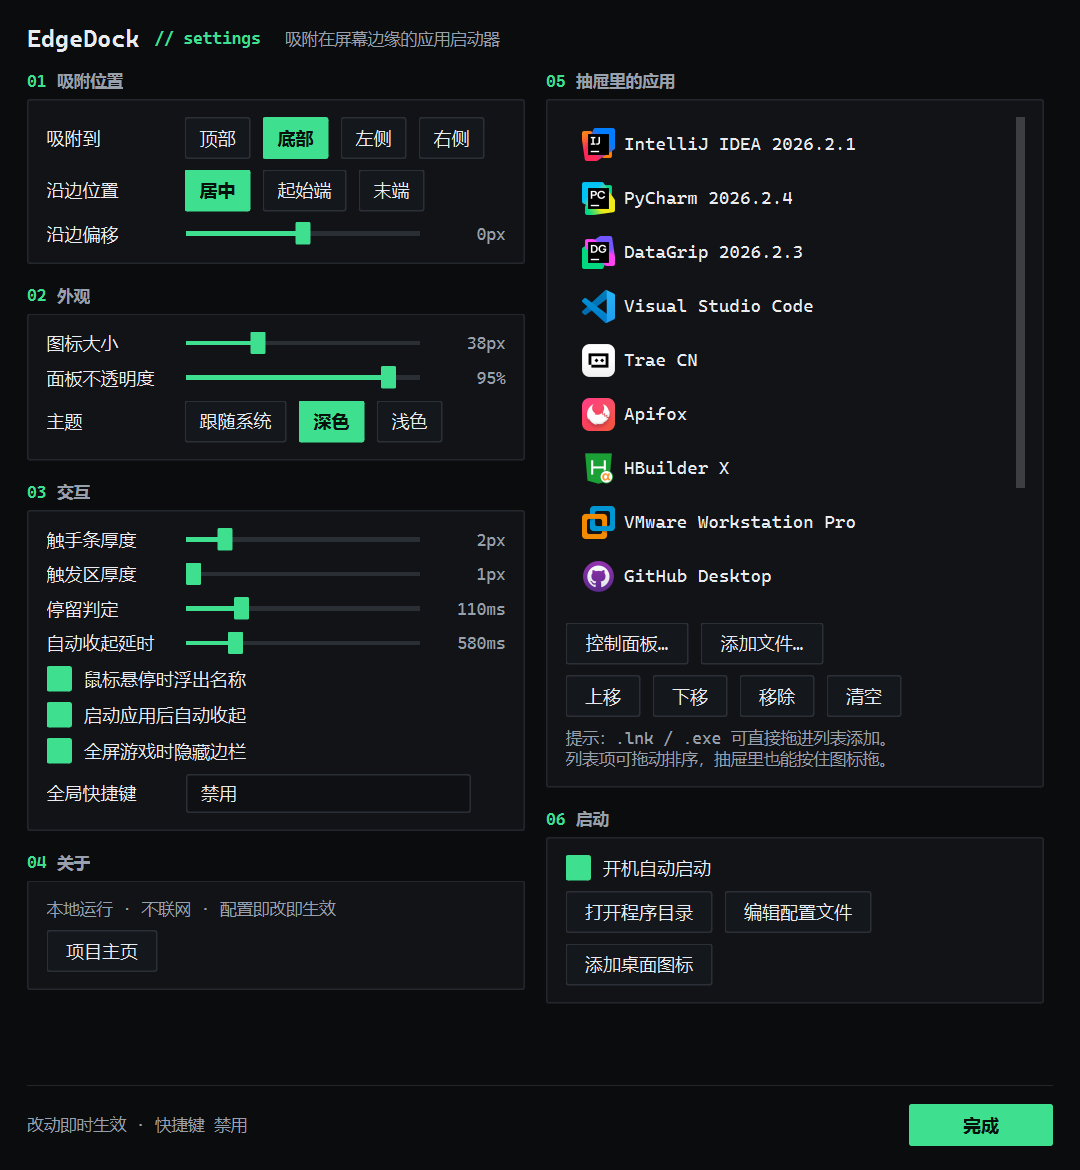
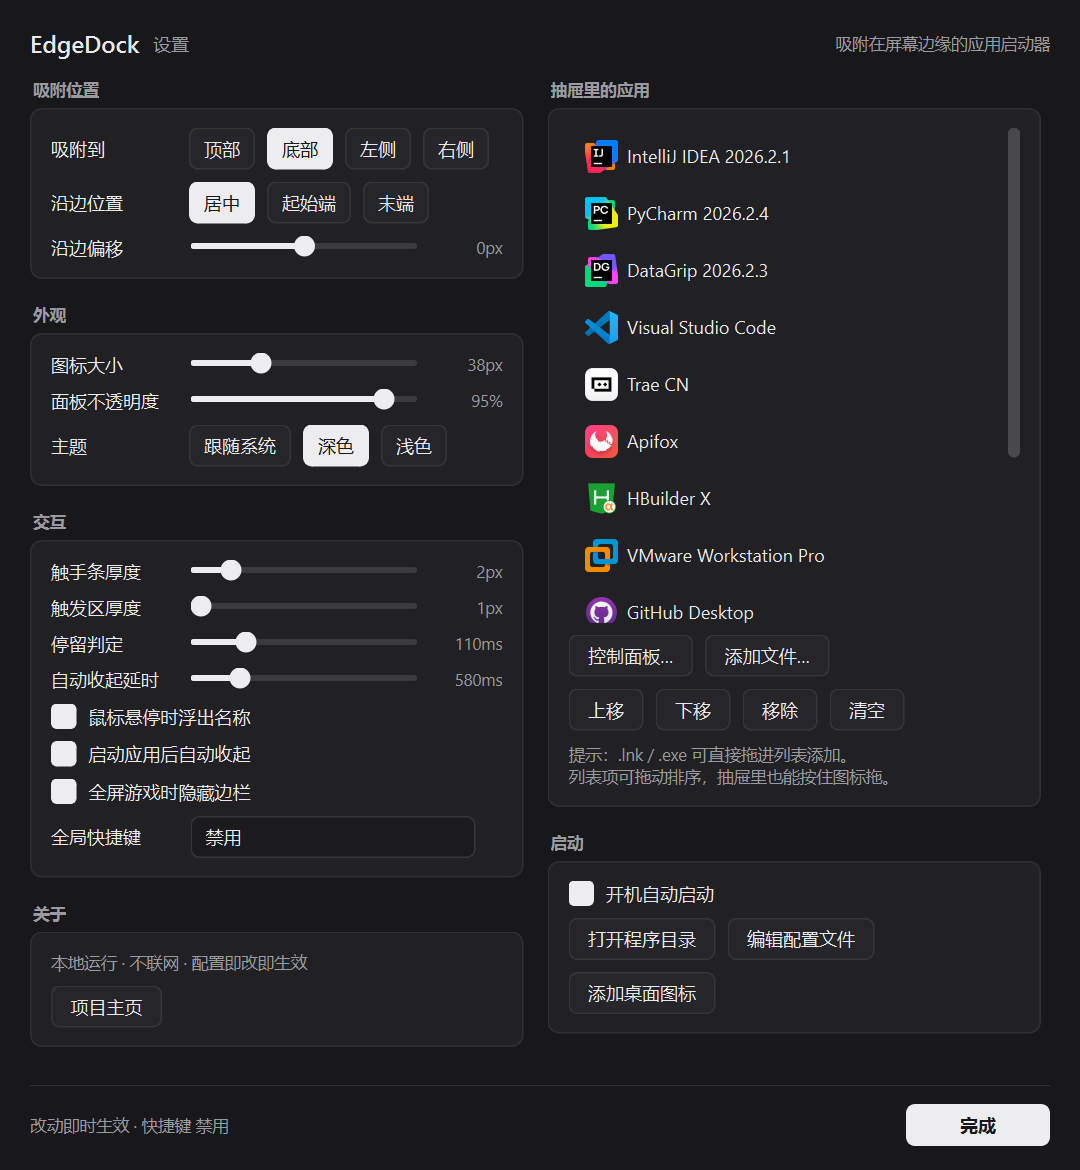
设置界面改成白灰简约（Codex Desktop 风）
- theme.py：设置窗口那套配色整体换成中性灰阶。浅色 = 纯白卡片 + #F6F6F7 底，
  深色 = #212124 卡片 + #18181B 底；强调色从荧光绿换成近黑 / 近白，
  不再有第二个色相
- settings_qss()：2px 直角改 8px 圆角、按钮 6px、指示器 4px；滑杆换成
  4px 轨道 + 14px 圆点；列表选中从「左侧色条 + 淡绿」改成淡灰圆角块；
  字体从等宽换成系统无衬线（Segoe UI / 微软雅黑）
- settings.py：去掉 01–06 编号，分组标题改成浅灰小字；页头改为
  「EdgeDock 设置 …… 吸附在屏幕边缘的应用启动器」，标语移到右侧；
  卡片内边距与列间距略微放宽（13/12、16px）
- 抽屉本体仍是琥珀橙，右键菜单不动 —— 只有设置窗口换了风格
- 三张配图重新渲染；README / 简介 描述同步

自检 238 项全绿；measure_settings 确认两列仍等宽（329/329）、内容没有溢出滚动区

diff --git a/edgedock/theme.py b/edgedock/theme.py
@@ -1,7 +1,8 @@
 # -*- coding: utf-8 -*-
 """配色方案。
 
-深色方案以「墨黑 + 琥珀橙」为主，贴合深色壁纸；浅色方案为纯净白。
+抽屉用「墨黑 + 琥珀橙」，贴合壁纸、暖色更显眼；设置窗口单独走**白灰简约**
+（纯白卡片 + 浅灰细线 + 近黑强调），两套配色各管一块，互不干扰。
 
 注意：Qt 样式表里的 rgba() 第 4 个参数必须是 0~255 的整数，
 写成 0.05 这种小数会被当成满不透明，务必用 Rgba() 辅助函数生成。
@@ -20,48 +21,49 @@ PERSONALIZE_KEY = (r"Software\Microsoft\Windows\CurrentVersion"
 
 DARK = {
     "name": "dark",
-    "dialog": "#0B0C0E",
+    "dialog": "#18181B",
     "panel_hi": QColor(38, 40, 47, 240),      # 面板渐变顶部
     "panel_lo": QColor(18, 19, 23, 234),      # 面板渐变底部
     "border": QColor(255, 255, 255, 26),
     "edge_light": QColor(255, 255, 255, 22),  # 内侧高光
     "hover": QColor(255, 255, 255, 28),
     "hover_ring": QColor(255, 122, 45, 90),
-    "text": "#E9EBEF",
-    "subtext": "#98A0AC",
+    "text": "#EAEAEC",
+    "subtext": "#9A9AA0",
     "accent": QColor(255, 122, 45),
     "grip": QColor(255, 140, 70, 190),
     "toast_bg": QColor(24, 25, 30, 242),
     "divider": QColor(255, 255, 255, 20),
     "scroll": QColor(255, 255, 255, 46),
     "immersive_dark": 1,
-    # 设置界面用色：终端 / CodeX 风 —— 近黑底、细边框、荧光绿强调
-    "card": "#111317",
-    "card_border": "#23262C",
-    "btn": "#14171B",
-    "btn_border": "#2B2F36",
-    "btn_hover": "#1B1F24",
-    "btn_press": "#22272D",
+    # 设置界面用色：白灰简约（Codex Desktop 那种）—— 中性灰阶，只有一个
+    # 近白强调色，不掺任何彩色。
+    "card": "#212124",
+    "card_border": "#303034",
+    "btn": "#26262A",
+    "btn_border": "#35353A",
+    "btn_hover": "#2E2E33",
+    "btn_press": "#35353B",
     "menu_sel": "rgba(255,122,45,62)",
     "menu_bg": "#1E2024",
-    "input_bg": "#0E1013",
-    "input_border": "#2A2E35",
-    "list_sel": "rgba(62,224,143,30)",
-    "list_hover": "#16191D",
-    "track": "#2A2E35",
-    "ind_border": "#3A3F47",
-    "ind_bg": "#0E1013",
-    "popup_bg": "#15181C",
-    # 设置界面自己的强调色。抽屉仍是琥珀橙 —— 它贴在壁纸上，暖色更显眼；
-    # 设置窗口是一块工作区，冷绿更符合终端的气质。
-    "s_accent": "#3EE08F",
-    "s_accent_soft": "#2FD07F",
-    "s_accent_text": "#06120B",
+    "input_bg": "#1B1B1E",
+    "input_border": "#35353A",
+    "list_sel": "rgba(255,255,255,18)",
+    "list_hover": "#2A2A2E",
+    "track": "#3A3A3F",
+    "ind_border": "#4A4A50",
+    "ind_bg": "#1B1B1E",
+    "popup_bg": "#242428",
+    # 设置界面的强调色。抽屉仍是琥珀橙 —— 它贴在壁纸上，暖色更显眼；
+    # 设置窗口走中性灰，强调色就是「最亮的那一档」，不需要另一个色相。
+    "s_accent": "#EDEDEF",
+    "s_accent_soft": "#D8D8DC",
+    "s_accent_text": "#17171A",
 }
 
 LIGHT = {
     "name": "light",
-    "dialog": "#F7F8F9",
+    "dialog": "#F6F6F7",
     # 半透明：能透出壁纸的层次，同时保持图标对比度
     "panel_hi": QColor(255, 255, 255, 202),
     "panel_lo": QColor(238, 240, 245, 184),
@@ -69,8 +71,8 @@ LIGHT = {
     "edge_light": QColor(255, 255, 255, 210),
     "hover": QColor(15, 18, 25, 26),
     "hover_ring": QColor(255, 122, 45, 130),
-    "text": "#1B1D22",
-    "subtext": "#5C6472",
+    "text": "#1F2328",
+    "subtext": "#6E7681",
     "accent": QColor(255, 110, 30),
     "grip": QColor(255, 120, 40, 175),
     "toast_bg": QColor(252, 252, 254, 238),
@@ -78,23 +80,23 @@ LIGHT = {
     "scroll": QColor(15, 18, 25, 60),
     "immersive_dark": 0,
     "card": "#FFFFFF",
-    "card_border": "#E4E6E9",
+    "card_border": "#E6E6E9",
     "btn": "#FFFFFF",
-    "btn_border": "#D8DBDF",
-    "btn_hover": "#F2F4F5",
-    "btn_press": "#E8EBED",
+    "btn_border": "#DCDCE0",
+    "btn_hover": "#F4F4F6",
+    "btn_press": "#ECECEF",
     "menu_sel": "rgba(255,122,45,56)",
     "menu_bg": "#FFFFFF",
     "input_bg": "#FFFFFF",
-    "input_border": "#D8DBDF",
-    "list_sel": "rgba(15,157,88,26)",
-    "list_hover": "#F2F4F5",
-    "track": "#E1E4E8",
-    "ind_border": "#C4C9CF",
+    "input_border": "#DCDCE0",
+    "list_sel": "#F0F0F2",
+    "list_hover": "#F7F7F9",
+    "track": "#E6E6E9",
+    "ind_border": "#C9C9CE",
     "ind_bg": "#FFFFFF",
     "popup_bg": "#FFFFFF",
-    "s_accent": "#0F9D58",
-    "s_accent_soft": "#0B8A4B",
+    "s_accent": "#1F2328",
+    "s_accent_soft": "#33383F",
     "s_accent_text": "#FFFFFF",
 }
 
@@ -154,84 +156,89 @@ def menu_qss(t: dict) -> str:
          "dis": t["subtext"]}
 
 
-MONO_FONT = ('"Cascadia Mono", "JetBrains Mono", "Sarasa Mono SC", '
-             '"Consolas", "Microsoft YaHei UI"')
+UI_FONT = ('"Segoe UI Variable Text", "Segoe UI", "Microsoft YaHei UI", '
+           '"PingFang SC", sans-serif')
 
 
 def settings_qss(t: dict) -> str:
-    """设置窗口样式表：终端 / CodeX 风。
+    """设置窗口样式表：白灰简约。
 
-    方角、1px 细线、等宽字体、单一荧光绿强调 —— 不做圆角卡片和渐变那套，
-    看起来像一块工作区，而不是一个「设置面板」。
+    一张白卡片 + 一圈 1px 浅灰细线 + 8px 圆角，全局只有一个强调色（近黑 /
+    近白），字用系统无衬线。没有发光、没有渐变、没有彩色标签 —— 目标是让它
+    看起来像一块安静的桌面面板，而不是一块终端。
     """
     return """
     QDialog { background: %(dialog)s; }
-    QWidget { color: %(text)s; font-family: %(mono)s; font-size: 12px; }
-    QLabel#Title   { font-size: 16px; font-weight: 700; }
-    QLabel#Brand   { color: %(accent)s; font-size: 11px; font-weight: 700; }
+    QWidget { color: %(text)s; font-family: %(ui)s; font-size: 12px; }
+    QLabel#Title   { font-size: 16px; font-weight: 600; }
+    QLabel#Brand   { color: %(subtext)s; font-size: 12px; }
     QLabel#Section { color: %(subtext)s; font-size: 11px; font-weight: 600; }
-    QLabel#Step    { color: %(accent)s; font-size: 11px; font-weight: 700; }
     QLabel#Hint    { color: %(subtext)s; font-size: 11px; }
     QFrame#Card    { background: %(card)s; border: 1px solid %(card_border)s;
-                     border-radius: 2px; }
+                     border-radius: 8px; }
     QFrame#FootLine { background: %(card_border)s; border: none; }
     QPushButton { background: %(btn)s; border: 1px solid %(btn_border)s;
-                  border-radius: 2px; padding: 5px 12px; }
+                  border-radius: 6px; padding: 5px 12px; }
     QPushButton:hover   { background: %(btn_hover)s;
-                          border-color: %(accent_soft)s; }
+                          border-color: %(btn_border_hover)s; }
     QPushButton:pressed { background: %(btn_press)s; }
+    QPushButton:disabled { color: %(subtext)s; }
     QPushButton#Primary { background: %(accent)s; color: %(accent_text)s;
-                          border: 1px solid %(accent)s; font-weight: 700; }
+                          border: 1px solid %(accent)s; font-weight: 600; }
     QPushButton#Primary:hover { background: %(accent_soft)s;
                                 border-color: %(accent_soft)s; }
     /* 内边距别调大：左列「吸附到」一行要放下四个按钮，
        稍微超出一点布局就会去压缩间距，标签和按钮就会贴到一起。 */
     QPushButton#Seg { padding: 5px 9px; }
     QPushButton#Seg:checked { background: %(accent)s; color: %(accent_text)s;
-                              border: 1px solid %(accent)s; font-weight: 700; }
+                              border: 1px solid %(accent)s; }
     QCheckBox { spacing: 8px; }
     /* 列表里的复选框必须自己画：一旦有 ::item 规则，Qt 就不再拿原生样式
        画指示器，勾没勾上都画成同一个空方框 —— 用户看见的就是「点了没反应」。 */
     QCheckBox::indicator, QListWidget::indicator {
-        width: 15px; height: 15px; border-radius: 2px;
+        width: 15px; height: 15px; border-radius: 4px;
         border: 1px solid %(ind_border)s; background: %(ind_bg)s; }
     QCheckBox::indicator:checked, QListWidget::indicator:checked {
         background: %(accent)s; border: 1px solid %(accent)s; }
-    QListWidget::indicator:hover { border: 1px solid %(accent)s; }
+    QCheckBox::indicator:hover, QListWidget::indicator:hover {
+        border: 1px solid %(accent_soft)s; }
     QListWidget { background: transparent; border: none; outline: none; }
-    QListWidget::item { padding: 5px 6px; border-left: 2px solid transparent; }
-    QListWidget::item:selected { background: %(list_sel)s;
-                                 border-left: 2px solid %(accent)s; }
+    QListWidget::item { padding: 6px 8px; border-radius: 6px; }
+    QListWidget::item:selected { background: %(list_sel)s; }
     QListWidget::item:hover { background: %(list_hover)s; }
-    QSlider::groove:horizontal { height: 3px; background: %(track)s; }
-    QSlider::sub-page:horizontal { background: %(accent)s; }
-    QSlider::handle:horizontal { width: 10px; height: 14px; margin: -6px 0;
-                                 border-radius: 1px; background: %(accent)s; }
+    QSlider::groove:horizontal { height: 4px; border-radius: 2px;
+                                 background: %(track)s; }
+    QSlider::sub-page:horizontal { background: %(accent)s; border-radius: 2px; }
+    QSlider::handle:horizontal { width: 14px; height: 14px; margin: -5px 0;
+                                 border-radius: 7px; background: %(accent)s; }
     /* 输入框跟下拉框用同一套皮肤。不写这条的话 Qt 会退回 Windows 11
        原生样式 —— 底下拖一道蓝线，跟其余控件完全不是一家人。 */
     QLineEdit { background: %(input_bg)s; border: 1px solid %(input_border)s;
-                border-radius: 2px; padding: 5px 9px; }
+                border-radius: 6px; padding: 5px 9px; }
     QLineEdit:focus { border: 1px solid %(accent)s; }
     QComboBox { background: %(input_bg)s; border: 1px solid %(input_border)s;
-                border-radius: 2px; padding: 4px 9px; }
+                border-radius: 6px; padding: 4px 9px; }
     QComboBox::drop-down { border: none; width: 20px; }
     QComboBox QAbstractItemView { background: %(popup_bg)s; color: %(text)s;
                 border: 1px solid %(input_border)s; outline: none;
+                padding: 4px; border-radius: 6px;
                 selection-background-color: %(accent)s;
                 selection-color: %(accent_text)s; }
     QScrollArea { background: transparent; border: none; }
     QScrollArea > QWidget > QWidget { background: transparent; }
     QScrollArea > QWidget > QScrollBar { background: transparent; }
-    QScrollBar:vertical { background: transparent; width: 6px; margin: 0; }
-    QScrollBar::handle:vertical { background: %(scroll)s; min-height: 28px; }
+    QScrollBar:vertical { background: transparent; width: 8px; margin: 0; }
+    QScrollBar::handle:vertical { background: %(scroll)s; min-height: 28px;
+                                  border-radius: 4px; }
     QScrollBar::add-line:vertical, QScrollBar::sub-line:vertical { height: 0; }
     QScrollBar::add-page:vertical, QScrollBar::sub-page:vertical
         { background: transparent; }
     """ % {
         "dialog": t["dialog"], "text": t["text"], "subtext": t["subtext"],
-        "mono": MONO_FONT,
+        "ui": UI_FONT,
         "card": t["card"], "card_border": t["card_border"],
         "btn": t["btn"], "btn_border": t["btn_border"],
+        "btn_border_hover": t["ind_border"],
         "btn_hover": t["btn_hover"], "btn_press": t["btn_press"],
         "accent": t["s_accent"], "accent_soft": t["s_accent_soft"],
         "accent_text": t["s_accent_text"],

diff --git a/edgedock/settings.py b/edgedock/settings.py
@@ -28,8 +28,8 @@ HOTKEYS = ["Ctrl+Alt+D", "Ctrl+Shift+D", "Alt+`", "Ctrl+Alt+Space", "禁用"]
 LABEL_W = 84        # 设置项名称列宽
 SLIDER_W = 170      # 滑杆最大宽度：拉太长的话数值读数会飘到很远，眼睛要来回跑
 VALUE_W = 48        # 数值读数列宽
-COL_GAP = 14        # 左右两列之间的间距
-CARD_GAP = 14       # 卡片之间的间距
+COL_GAP = 16        # 左右两列之间的间距
+CARD_GAP = 16       # 卡片之间的间距
 
 
 def apply_immersive(dlg: QDialog, t: dict) -> None:
@@ -97,24 +97,22 @@ class SettingsDialog(QDialog):
 
     # ------------------------------------------------------------------
     def _build(self) -> None:
-        self._card_no = 0
         root = QVBoxLayout(self)
-        root.setContentsMargins(18, 16, 18, 16)
+        root.setContentsMargins(20, 18, 20, 16)
         root.setSpacing(12)
 
         head = QHBoxLayout()
-        head.setSpacing(10)
+        head.setSpacing(8)
         title = QLabel("EdgeDock")
         title.setObjectName("Title")
-        brand = QLabel("// settings")
+        brand = QLabel("设置")
         brand.setObjectName("Brand")
         ver = QLabel("吸附在屏幕边缘的应用启动器")
         ver.setObjectName("Hint")
         head.addWidget(title)
         head.addWidget(brand)
-        head.addSpacing(6)
-        head.addWidget(ver)
         head.addStretch(1)
+        head.addWidget(ver)
         root.addLayout(head)
 
         area = QScrollArea()
@@ -271,28 +269,24 @@ class SettingsDialog(QDialog):
 
     # ------------------------------------------------------------------
     def _card(self, parent_layout, title: str):
-        """往父布局里加「编号 + 标题 + 卡片」，返回卡片内部的竖直布局。
+        """往父布局里加「小标题 + 卡片」，返回卡片内部的竖直布局。
 
-        编号是装饰性的：等宽小字 + 荧光绿，让五张卡片读起来像终端里的一段
-        配置清单，而不是五个圆角盒子。
+        标题是浅灰色的小字，压在卡片左上角：让五张卡片读起来像同一页上
+        排好的五段，而不是五个各说各话的盒子。
         """
-        self._card_no += 1
         head = QHBoxLayout()
-        head.setContentsMargins(0, 0, 0, 0)
+        head.setContentsMargins(2, 0, 0, 0)
         head.setSpacing(7)
-        num = QLabel("%02d" % self._card_no)
-        num.setObjectName("Step")
         lab = QLabel(title)
         lab.setObjectName("Section")
-        head.addWidget(num)
         head.addWidget(lab)
         head.addStretch(1)
 
         card = QFrame()
         card.setObjectName("Card")
         lay = QVBoxLayout(card)
-        lay.setContentsMargins(12, 11, 12, 11)
-        lay.setSpacing(7)
+        lay.setContentsMargins(13, 12, 13, 12)
+        lay.setSpacing(8)
         # 标题跟自己的卡片贴紧一点，跟上一张卡片分开一点，层级才看得清
         wrap = QVBoxLayout()
         wrap.setContentsMargins(0, 0, 0, 0)

diff --git a/README.md b/README.md
@@ -160,8 +160,9 @@
 ![设置页面](assets/设置页面.png)
 
 面板是**左右两列**：左列调参数，右列管内容。所有项一屏放得下，不用滚。
-风格是**终端极客风**：近黑底 + 等宽字体 + 荧光绿高亮，六个分组带 `01`–`06` 编号，
-2px 直角卡片、1px 细边框；抽屉本体仍是琥珀橙，两边不会互相抢。
+风格是**白灰简约**（Codex Desktop 那种）：纯白卡片 + 1px 浅灰细线 + 8px 圆角，
+全局只有一个近黑强调色，字用系统无衬线，没有渐变、没有发光、没有彩色标签。
+抽屉本体仍是琥珀橙，两边不会互相抢。
 
 - **吸附位置**（左）：顶部 / 底部 / 左侧 / 右侧；沿边居中、靠起点或靠终点；还可以整体偏移
 - **外观**（左）：图标大小 28–62px、面板不透明度、**跟随系统 / 深色 / 浅色**主题

diff --git a/简介.md b/简介.md
@@ -76,7 +76,8 @@ Windows 桌面小工具 · PySide6 实现 · 绿色免安装 · 全中文注释
 
 ### 六、设置面板一屏放得下
 - **左右两列**布局：左列调参数（吸附位置 / 外观 / 交互 / 关于），右列管内容（应用列表 / 启动）
-- **终端极客风**：近黑底 + 等宽字体 + 荧光绿高亮，分组带 `01`–`06` 编号，2px 直角卡片
+- **白灰简约**（Codex Desktop 那种）：纯白卡片 + 浅灰细线 + 8px 圆角 + 近黑强调色，
+  字用系统无衬线，没有渐变和彩色标签
 - 所有项**即时生效**，不需要重启
 - 设置窗口自带**最小化按钮**：一边改参数一边要腾地方时最小化就行，不必关掉再重开
 
